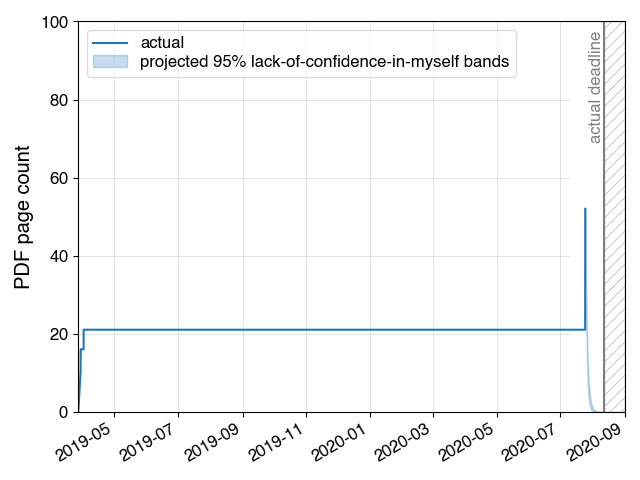
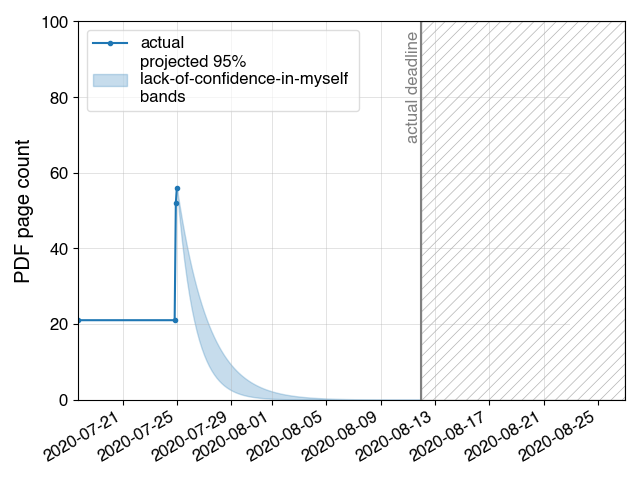
add iso section and more todos

diff --git a/tex/chapter3.tex b/tex/chapter3.tex
@@ -1,1 +1,100 @@
 \chapter{Objects and variables}
+\mytodo{make todo}
+
+\section{Jets, MET}
+\subsection{Jet identification, corrections}
+\subsection{MET}
+\subsection{B tagging}
+% performance plot
+% define njets, nb here
+
+
+\section{Leptons}
+
+\subsection{Identification}
+
+\subsection{Isolation}
+\mytodo{already reworded}
+
+Conceptually, a lepton can be labeled isolated if the ratio of 
+energy in a cone surrounding the lepton to the energy of the lepton itself
+(``relative isolation'') is below a certain threshold.
+However, we instead use three more sophisticated variables, improving upon this concept for robustness,
+to classify leptons as isolated:
+\begin{itemize}
+    \item ``mini-isolation'' $\miniiso$: 
+    \begin{equation}
+        \miniiso = \frac{\sum_R \pt(h^\pm) - \mbox{max}(0, \sum_R \pt(h^0)+\pt(\gamma) - \rho\mathcal{A}\left(\frac{R}{0.3}\right)^2}{\pt(\ell)}.
+    \end{equation}
+    where $\rho$ is the event-level energy density from pileup,
+    and $\sum_R\pt(h^\pm)$, $\sum_R\pt(h^0)$, $\sum_R\pt(\gamma)$ 
+    are the sums of the $\pt$ of charged hadrons, neutral hadrons, and photons, respectively.
+    The sum is performed within a cone of radius $R$, which depends on lepton \pt:
+    \begin{equation}
+        R = \frac{10}{\mbox{min}(\mbox{max}(\pt(\ell), 50), 200)}
+    \end{equation}
+    The effective areas $\mathcal{A}$ are constants calculated in coarse bins of
+    lepton $\eta$ such that the last term of the numerator represents the
+    contribution from pileup and is subtracted off.
+    Requiring $\miniiso$ to be below a particular value ensures that the
+    lepton is isolated.
+
+    \item \ptratio, defined as the ratio of the lepton \pt to the
+    \pt of the jet geometrically closest to, or containing, the lepton:
+    \begin{equation}
+        \ptratio = \frac{\pt(\ell)}{\pt(\text{jet})}
+    \end{equation}
+    In order to avoid an
+    over-correction on prompt leptons, the application of the jet energy
+    correction to mitigate is only applied on the hadronic part of the jet.
+    That is, the denominator of $\ptratio$ is corrected for pileup effects
+    after the lepton is subtracted out, and the lepton is subsequently added back.
+
+    \item \ptrel:
+    \begin{equation}
+        \ptrel=\frac{\left|\left(\vec{p}(\text{jet})-\vec{p}(\ell)\right) 
+        \times \vec{p}(\ell)\right| }{|\vec{p}(\text{jet})-\vec{p}(\ell)|}
+    \end{equation}
+    This variable is a measure of the relative transverse separation between the lepton 
+    and matching jet. For leptons arising from the decay of B mesons, for example,
+    this quantity exhibits a kinematic cutoff of a few GeV. For leptons that
+    happen to overlap accidentally with jets, \ptrel compares too uncorrelated
+    quantities and exhibits no kinematic cutoff, so this quantity can be large.
+    This property allows us to recover leptons that would be labeled non-isolated
+    by the previous two variables.
+\end{itemize}
+
+Using the above three variables, we classify a lepton
+as isolated if the following boolean condition is satisfied:
+\begin{equation}
+  \miniiso < I_1 \wedge ( \ptratio > I_2 \vee \ptrel > I_3 )
+\end{equation}
+where $I_i$ threshold values depend on the lepton flavor and PU conditions
+of the flavor of the lepton. These values are tabulated in \ref{tab:isoWPs}.
+
+\begin{table}[h]
+    \label{tab:isoWPs}
+    \centering
+    \caption{Isolation working points }
+    \begin{tabular}{|l||c|c|c|c|}
+        \hline
+        & e/$\mu$ loose WP &  $\mu$ tight WP & e tight WP \\ \hline 
+        $I_1$ & 0.4 & 0.16 (2016), 0.11 (2017/2018) & 0.12 (2016), 0.07 (2017/2018) \\
+        $I_2$ & 0  & 0.76 (2016), 0.74 (2017/2018) & 0.80 (2016), 0.78 (2017/2018) \\
+        $I_3$ & 0  & 7.2 (2016), 6.8 (2017/2018) & 7.2 (2016), 8.0 (2017/2018) \\ \hline
+    \end{tabular}
+\end{table}
+
+\section{Trigger}
+trigger plot
+
+\section{Key variables}
+mtmin njets nleps, ...
+% mtmin, njets nle
+
+\section{Event-level BDT}
+% bdt for four top
+describe bdt example, variables, training, result ROC
+
+\section{Signal regions}
+\mytodo{where do baseline selections go??}

diff --git a/tex/abstract.tex b/tex/abstract.tex
@@ -1,23 +1,24 @@
 \begin{abstract}
 \addcontentsline{toc}{chapter}{Abstract}
 
-Two related searches for Standard Model and beyond the Standard Model physics
-    with a final state containing a pair of same-charged leptons and jets are
-    performed using a sample of \sthirteen data corresponding to an integrated
-    luminosity of 137~\ifb, collected by the CMS detector between 2016 and
-    2018. The first inclusive search observes no excess above the Standard
-    Model and thus places constraints on R-parity violating and R-parity
-    conserving supersymmetric models with pair production of gluinos and
-    squarks.  Gluino masses are excluded up to 2.1 TeV, while top and bottom
-    squarks are excluded up to 0.9 TeV.  The second search measures the
-    cross-section of the production of four top quarks within the Standard
-    Model using both cut-based and multivariate approaches.  The observed
-    (expected) significance of the multivariate approach is 2.6 (2.7) standard
-    deviations, with a measured cross-section of $12.6^{+5.8}_{-5.2}$ fb,
-    consistent with the Standard Model prediction of $12.0^{+2.2}_{-2.5}$ fb.
-    These results are translated into constraints on the Yukawa coupling of the
-    top quark, as well as constraints on heavy scalar or pseudoscalar
-    production in a type II 2HDM scenario.
+Two related searches for Standard Model and and inclusive beyond the Standard
+Model physics with a final state containing a pair of same-charged leptons
+and jets are performed using a sample of \sthirteen data corresponding to an
+integrated luminosity of 137~\ifb, collected by the CMS detector between 2016
+and 2018. The inclusive search observes no excess above the Standard Model
+and thus places constraints on R-parity violating and R-parity conserving
+supersymmetric models with pair production of gluinos and squarks. Gluino
+masses are excluded up to 2.1 TeV, while top and bottom squarks are excluded
+up to 0.9 TeV. The Standard Model search measures the cross-section of the
+production of four top quarks using both cut-based and multivariate
+approaches. The observed (expected) significance of the multivariate approach
+is 2.6 (2.7) standard deviations, with a measured cross-section of
+$12.6^{+5.8}_{-5.2}$ fb, consistent with the Standard Model prediction of
+$12.0^{+2.2}_{-2.5}$ fb. These results are translated into constraints on the
+Yukawa coupling of the top quark, heavy scalar or pseudoscalar production
+in a type II 2HDM scenario or models of dark matter, couplings between the
+top quark and new light scalar or vector particles, and the Higgs boson
+oblique parameter in an effective field theory framework.
 
 %\abstractsignature
 \end{abstract}

diff --git a/scripts/plot_progress.py b/scripts/plot_progress.py
@@ -1,4 +1,4 @@
-#!/usr/bin/env python
+#!/usr/bin/env python3
 # coding: utf-8
 import os
 import sys
@@ -32,8 +32,10 @@ with open("{}/logs/size_log.txt".format(basedir),"r") as fh:
 df = pd.DataFrame(data,columns=["date","pages","kb"])
 df["date"] = pd.to_datetime(df["date"])
 
+df = df.set_index("date")["2020":].reset_index()
+
 fig,ax = plt.subplots()
-ax.plot(df["date"],df["pages"],label="actual")
+ax.plot(df["date"],df["pages"],label="actual", marker=".")
 ax.set_ylim([0.,100.])
 ax.set_ylabel("PDF page count")
 
@@ -55,14 +57,15 @@ ylatest = df["pages"].values[-1]
 x0, y0 = ax.get_xlim()[0],ax.get_ylim()[0]
 x1, y1 = ax.get_xlim()[1],ax.get_ylim()[1]
 
-ax.set_xlim([None, ax.get_xlim()[1]+20])
+# ax.set_xlim([None, ax.get_xlim()[1]+90])
+ax.set_xlim([None, ax.get_xlim()[1]+15])
 
 slope = (ylatest-yfirst)/(xlatest-xfirst)
 xs = np.linspace(xlatest,xdeadline,100)
 xnorms = (xs-xlatest)/(xs.max()-xs.min())
 ys_high = (ylatest + slope*1.5*(xs-xlatest))*np.exp(-10*xnorms)
 ys_low = (ylatest + slope*0.7*(xs-xlatest))*np.exp(-15*xnorms)
-ax.fill_between(xs,ys_low,ys_high,color="C0",alpha=0.25,label="projected 95% lack-of-confidence-in-myself bands")
+ax.fill_between(xs,ys_low,ys_high,color="C0",alpha=0.25,label="projected 95% \nlack-of-confidence-in-myself \nbands")
 
 ax.legend()
 

diff --git a/thesis.tex b/thesis.tex
@@ -70,7 +70,7 @@
 \newcommand{\ETm}{\ensuremath{E_{\mathrm{T}}^{\text{miss}}}\xspace}
 \newcommand{\ptvecmiss}{\ensuremath{{\vec p}_{\mathrm{T}}^{\kern1pt\text{miss}}}\xspace}
 \newcommand{\ptmiss}{\ensuremath{\pt^\text{miss}}\xspace}
-\newcommand{\CL}{\ensuremath{\text{CL}}\xspace} % needs to be overridden to C.L. for APS. Look out for \CL.
+\newcommand{\CL}{\ensuremath{\text{CL}}\xspace}
 \newcommand{\CLs}{\ensuremath{\text{CL}_\text{s}}\xspace}
 \newcommand{\CLsb}{\ensuremath{\text{CL}_\text{s+b}}\xspace}
 \newcommand{\cPZpr}{\ensuremath{Z^\prime}\xspace}
@@ -99,6 +99,10 @@
 \newcommand{\TfttbbWW}{\ensuremath{\mathrm{T5\PQt\PQt\PQb\PQb\PW\PW}}\xspace}
 \newcommand{\Totbs}{\ensuremath{\mathrm{T1\PQt\PQb\PQs}}\xspace}
 \newcommand{\ToqqqqL}{\ensuremath{\mathrm{T1\PQq\PQq\PQq\PQq L}}\xspace}
+
+\newcommand{\miniiso}{\ensuremath{I_\mathrm{mini}}\xspace}
+\newcommand{\ptratio}{\ensuremath{\pt^\text{ratio}}\xspace}
+\newcommand{\ptrel}{\ensuremath{\pt^\text{rel}}\xspace}
 
 \newcommand{\mytodo}[1]{\todo[inline, color=red!40]{#1}}
 

diff --git a/tex/chapter1.tex b/tex/chapter1.tex
@@ -1,9 +1,6 @@
 \chapter{Introduction}
 
-\begin{section}{Info}
-Some facts
+\mytodo{make todo}
 
 
 The results presented in this thesis correspond to the published results in Refs.~\cite{CMS:myTOPRun2,CMS:mySUSRun2PAS,CMS:myTOP2016,CMS:mySUS2016}.
-
-\end{section}

diff --git a/tex/chapter5.tex b/tex/chapter5.tex
@@ -1,5 +1,10 @@
 \chapter{Results and interpretations}
 \label{sec:results}
+
+\mytodo{make todo}
+\mytodo{merge/factor out common info}
+\mytodo{make sure nothing plagiarized}
+
 \section{SUSY results}
 \label{sec:ssresults}
 

diff --git a/tex/chapter2.tex b/tex/chapter2.tex
@@ -1,1 +1,2 @@
 \chapter{Same-sign dilepton final state}
+\mytodo{make todo}

diff --git a/tex/chapter4.tex b/tex/chapter4.tex
@@ -1,1 +1,2 @@
 \chapter{Background estimation}
+\mytodo{make todo}
